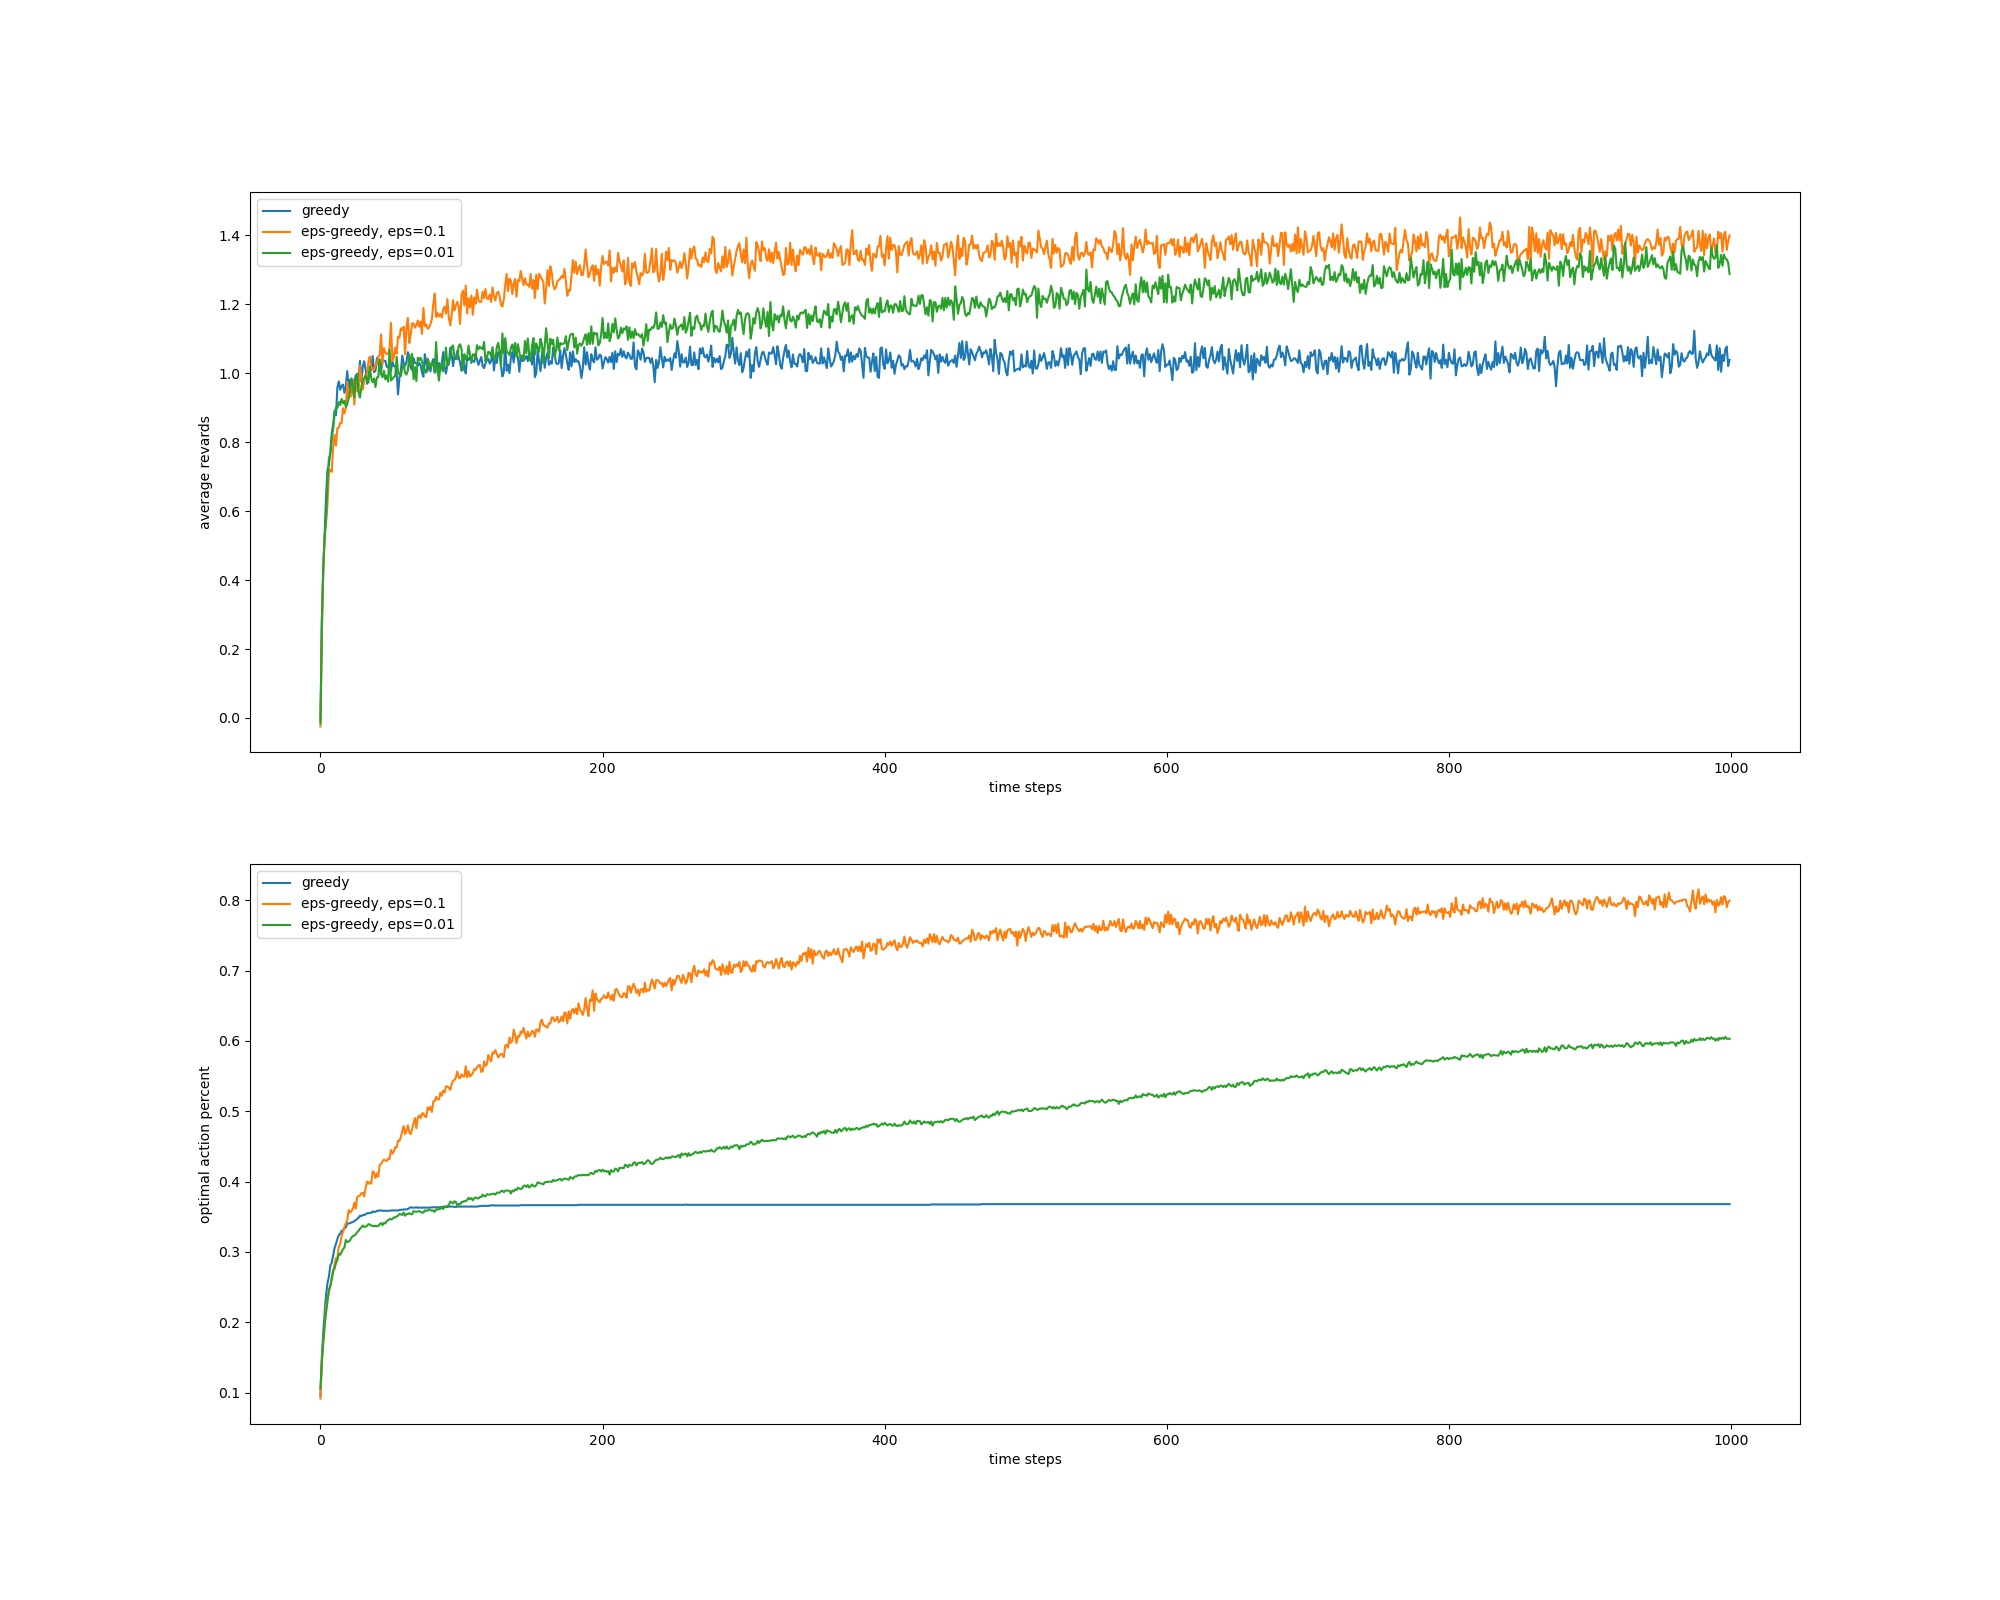
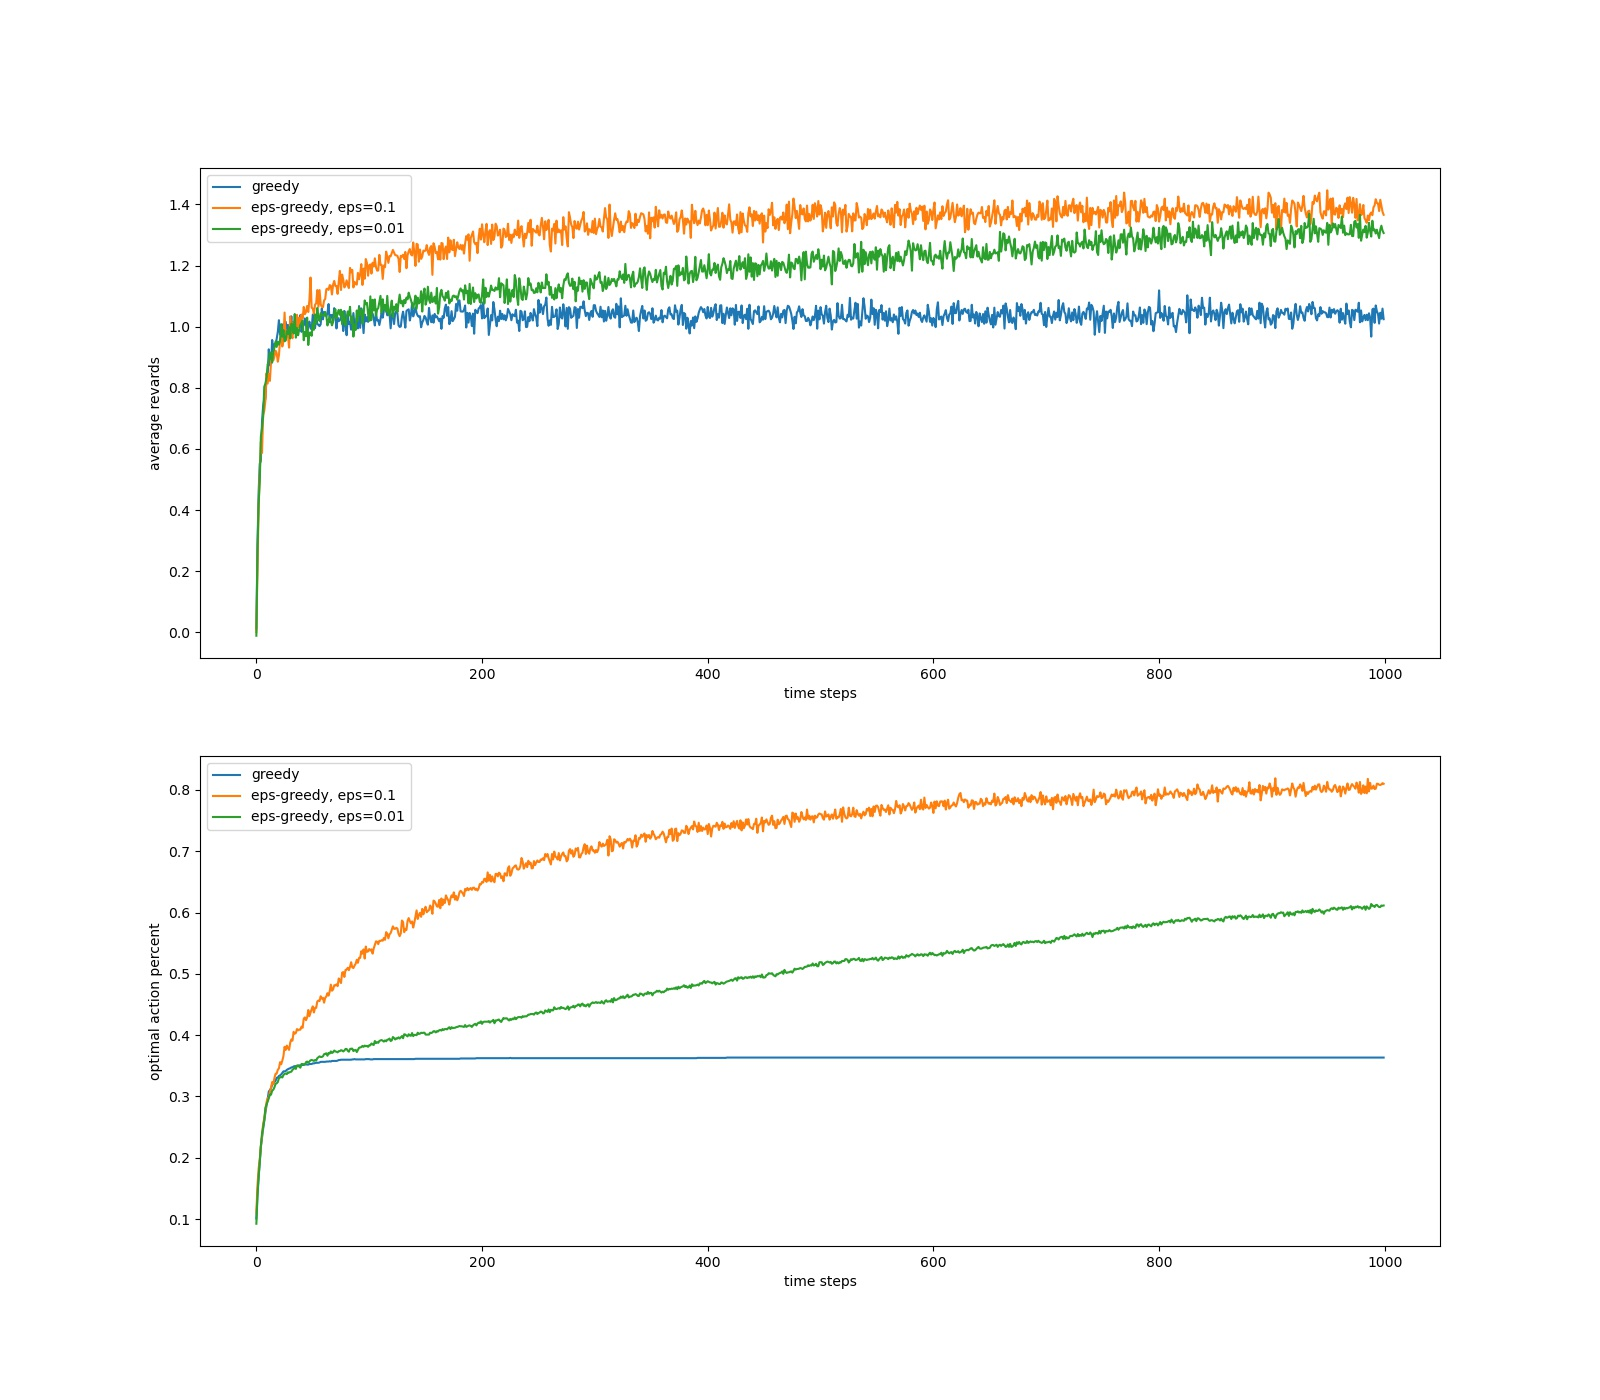
add experiment 2 and 3. + Refactor

diff --git a/chapter_2/bandit.py b/chapter_2/bandit.py
@@ -1,41 +1,59 @@
 import numpy as np
-from tqdm import tqdm
 from matplotlib import pyplot as plt
+from tqdm import tqdm
 
 
 class Bandit:
     # k-armed bandit
-    def __init__(self, k=10, init_true_values=None, init_q_values=None, eps=None):
+    def __init__(
+        self,
+        k=10,
+        init_true_values=None,
+        init_q_values=None,
+        eps=None,
+        alpha=None,
+        ucb=False,
+        c=None,
+    ):
         self.k = k
         self.init_true_values = init_true_values
         self.init_q_values = init_q_values
+        self.alpha = alpha
+        self.ucb = ucb
+        self.c = c
         # not none eps mean e-gready algorithm
         self.is_greedy = True if eps is None else False
         self.eps = eps
         self.action_count = np.zeros(self.k)
         self.n = 0
 
-        self.true_values = self.init_true_values \
-            if self.init_true_values is not None \
+        self.true_values = (
+            np.copy(self.init_true_values)
+            if self.init_true_values is not None
             else np.random.randn(self.k)
+        )
 
         self.best_arm_index = np.argmax(self.true_values)
 
-        self.q_values = self.init_q_values if self.init_q_values is not None \
-            else np.zeros(self.k)
+        self.q_values = (
+            np.copy(self.init_q_values) if self.init_q_values is not None else np.zeros(self.k)
+        )
 
     def reset(self):
         self.n = 0
         self.action_count = np.zeros(self.k)
 
-        self.true_values = self.init_true_values \
-            if self.init_true_values is not None \
+        self.true_values = (
+            np.copy(self.init_true_values)
+            if self.init_true_values is not None
             else np.random.randn(self.k)
+        )
 
         self.best_arm_index = np.argmax(self.true_values)
 
-        self.q_values = self.init_q_values if self.init_q_values is not None \
-            else np.zeros(self.k)
+        self.q_values = (
+            np.copy(self.init_q_values) if self.init_q_values is not None else np.zeros(self.k)
+        )
 
     def pull_arm(self, arm_index):
         revard = np.random.normal(self.true_values[arm_index], 1.0)
@@ -43,20 +61,26 @@ class Bandit:
 
     def train(self):
         self.n += 1
-        eps = np.random.rand()
 
-        arm_index = np.where(self.q_values == np.max(self.q_values))[0]
-        arm_index = arm_index.item() if len(arm_index) == 1 \
-            else np.random.choice(arm_index, 1).item()
+        if self.ucb:
+            ucb_estimates = self.q_values + self.c * np.sqrt(
+                np.log(self.n) / (self.action_count + 1e-5)
+            )
+            arm_index = np.random.choice(np.where(ucb_estimates == np.max(ucb_estimates))[0])
+        else:
+            eps = np.random.rand()
+            arm_index = np.random.choice(np.where(self.q_values == np.max(self.q_values))[0])
 
-        if not self.is_greedy and eps <= self.eps:
-            arm_index = np.random.choice(self.k, 1).item()
+            if not self.is_greedy and eps <= self.eps:
+                arm_index = np.random.choice(self.k, 1).item()
 
         revard = self.pull_arm(arm_index)
-
         self.action_count[arm_index] += 1
-        self.q_values[arm_index] = self.q_values[arm_index] + \
-            (1.0/self.action_count[arm_index]) * (revard - self.q_values[arm_index])
+        step_size = 1.0 / self.action_count[arm_index] if self.alpha is None else self.alpha
+
+        self.q_values[arm_index] = self.q_values[arm_index] + step_size * (
+            revard - self.q_values[arm_index]
+        )
 
         is_best_arm_selected = arm_index == self.best_arm_index
 
@@ -78,35 +102,82 @@ def simulate(bandits, runs=2000, time_steps=1000):
 
 
 def experiment_1():
-    bandits = [
-        Bandit(10),
-        Bandit(10, eps=0.1),
-        Bandit(10, eps=0.01)
-    ]
+    bandits = [Bandit(10), Bandit(10, eps=0.1), Bandit(10, eps=0.01)]
 
     revards, best_actions = simulate(bandits)
 
     average_revard = np.mean(revards, axis=1)
     optimal_action_perc = np.mean(best_actions, axis=1)
 
-    fig, (ax1, ax2) = plt.subplots(2, figsize=(20, 16))
+    fig, (ax1, ax2) = plt.subplots(2, figsize=(16, 14))
 
-    ax1.plot(average_revard[0], label='greedy')
-    ax1.plot(average_revard[1], label='eps-greedy, eps=0.1')
-    ax1.plot(average_revard[2], label='eps-greedy, eps=0.01')
+    ax1.plot(average_revard[0], label="greedy")
+    ax1.plot(average_revard[1], label="eps-greedy, eps=0.1")
+    ax1.plot(average_revard[2], label="eps-greedy, eps=0.01")
     ax1.legend()
-    ax1.set_xlabel('time steps')
-    ax1.set_ylabel('average revards')
+    ax1.set_xlabel("time steps")
+    ax1.set_ylabel("average revards")
 
-    ax2.plot(optimal_action_perc[0], label='greedy')
-    ax2.plot(optimal_action_perc[1], label='eps-greedy, eps=0.1')
-    ax2.plot(optimal_action_perc[2], label='eps-greedy, eps=0.01')
+    ax2.plot(optimal_action_perc[0], label="greedy")
+    ax2.plot(optimal_action_perc[1], label="eps-greedy, eps=0.1")
+    ax2.plot(optimal_action_perc[2], label="eps-greedy, eps=0.01")
     ax2.legend()
-    ax2.set_xlabel('time steps')
-    ax2.set_ylabel('optimal action percent')
+    ax2.set_xlabel("time steps")
+    ax2.set_ylabel("optimal action percent")
 
-    plt.savefig('plots/experiment_1.jpg')
+    plt.savefig("plots/experiment_1.jpg")
+
+
+def experiment_2():
+    bandits = [Bandit(10, init_q_values=np.ones(10) * 5, alpha=0.1), Bandit(10, eps=0.1)]
+
+    revards, best_actions = simulate(bandits)
+
+    average_revard = np.mean(revards, axis=1)
+    optimal_action_perc = np.mean(best_actions, axis=1)
+
+    fig, (ax1, ax2) = plt.subplots(2, figsize=(16, 14))
+
+    ax1.plot(average_revard[0], label="Optimistic (q=5), greedy")
+    ax1.plot(average_revard[1], label="eps-greedy, eps=0.1")
+    ax1.legend()
+    ax1.set_xlabel("time steps")
+    ax1.set_ylabel("average revards")
+
+    ax2.plot(optimal_action_perc[0], label="Optimistic (q=5), greedy")
+    ax2.plot(optimal_action_perc[1], label="eps-greedy, eps=0.1")
+    ax2.legend()
+    ax2.set_xlabel("time steps")
+    ax2.set_ylabel("optimal action percent")
+
+    plt.savefig("plots/experiment_2.jpg")
+
+
+def experiment_3():
+    bandits = [Bandit(10, ucb=True, c=2), Bandit(10, eps=0.1)]
+
+    revards, best_actions = simulate(bandits)
+
+    average_revard = np.mean(revards, axis=1)
+    optimal_action_perc = np.mean(best_actions, axis=1)
+
+    fig, (ax1, ax2) = plt.subplots(2, figsize=(16, 14))
+
+    ax1.plot(average_revard[0], label="UCB c=2")
+    ax1.plot(average_revard[1], label="eps-greedy, eps=0.1")
+    ax1.legend()
+    ax1.set_xlabel("time steps")
+    ax1.set_ylabel("average revards")
+
+    ax2.plot(optimal_action_perc[0], label="UCB c=2")
+    ax2.plot(optimal_action_perc[1], label="eps-greedy, eps=0.1")
+    ax2.legend()
+    ax2.set_xlabel("time steps")
+    ax2.set_ylabel("optimal action percent")
+
+    plt.savefig("plots/experiment_3.jpg")
 
 
 if __name__ == "__main__":
-    experiment_1()
+    # experiment_1()
+    experiment_3()
